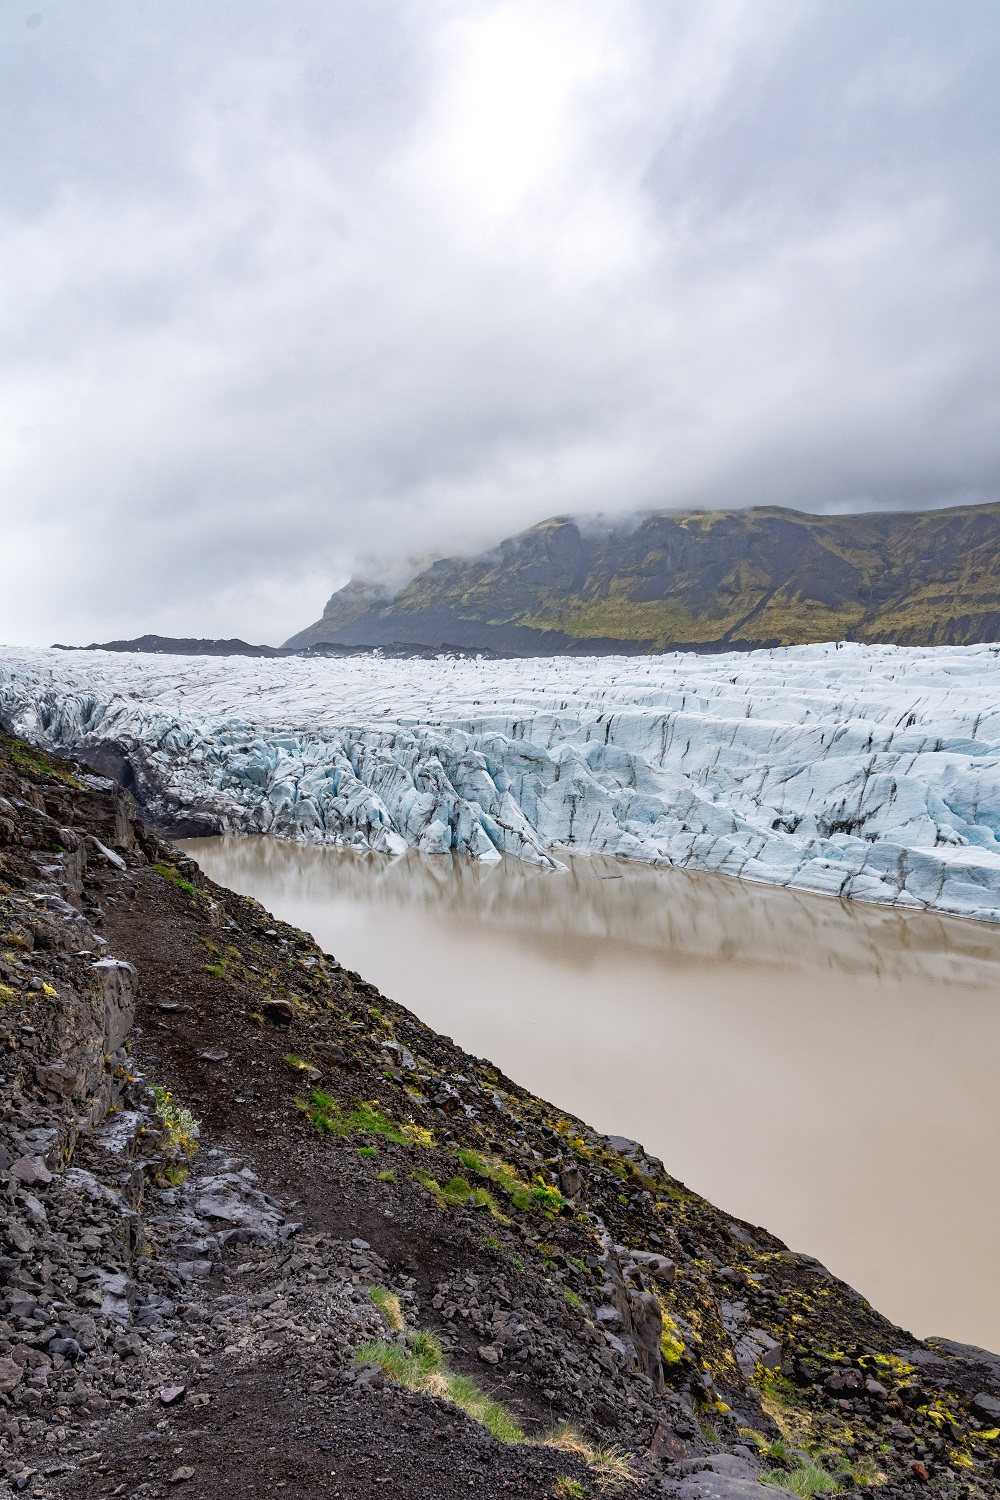
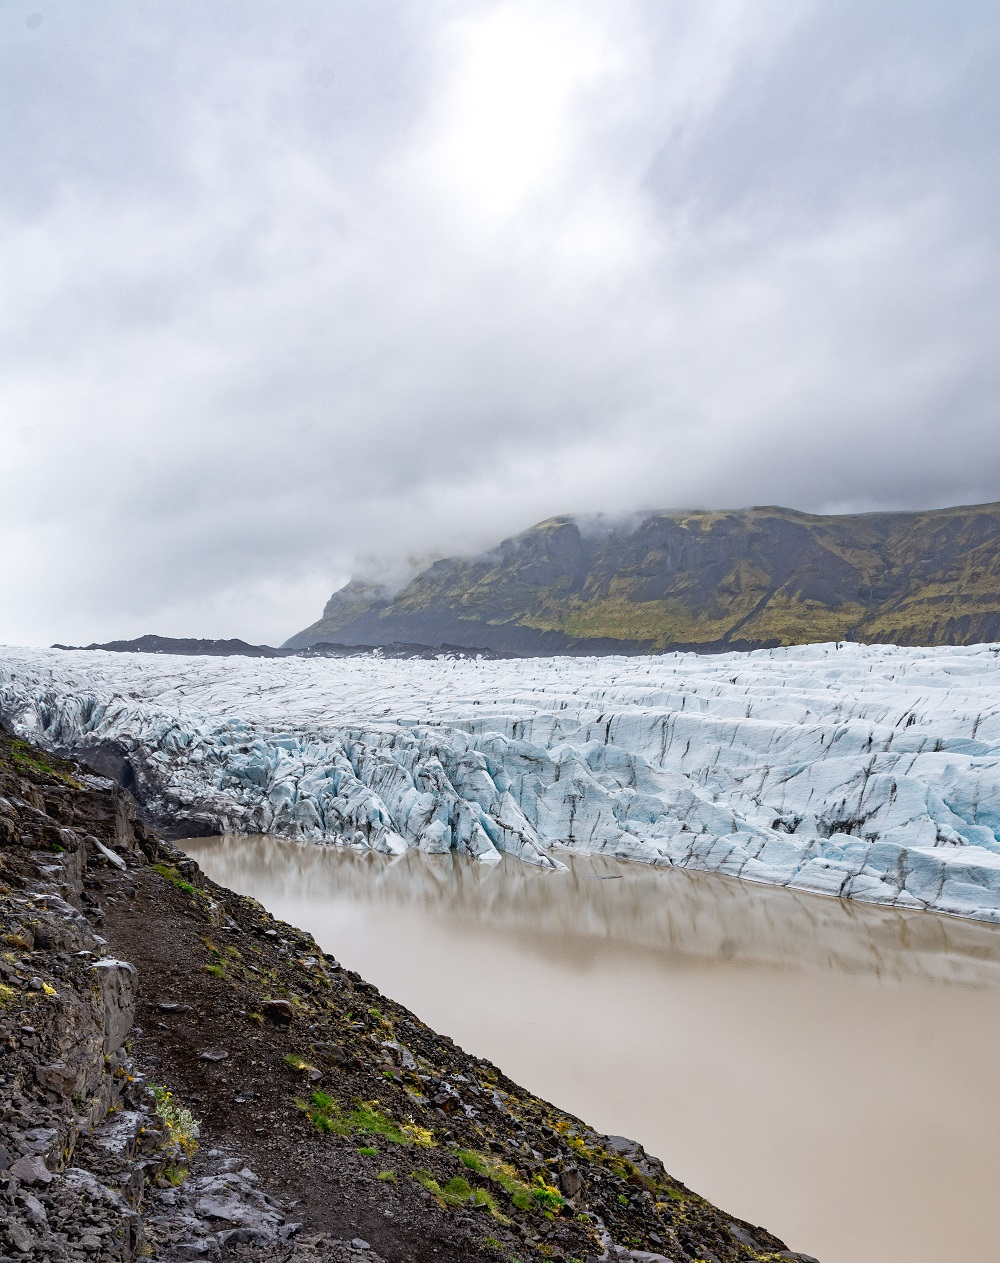
ferdig med bilder

diff --git a/stylesheet.css b/stylesheet.css
@@ -14,7 +14,9 @@ h1 {
 img {
     display: block;
     overflow: hidden;
-    width: 100%
+    width: 100%;
+    height: 100%;
+    object-fit: cover;
 }
 
 * {
@@ -86,10 +88,12 @@ a:active {
 }
 
 .main {
-    max-width: 1500px;
+    max-width: 1300px;
     margin: 50px auto 0 auto;
 }
+
 /* Referanse bilde: https://unsplash.com/photos/qwHHOC2z5Xs */
+
 .top-container {
     background-image: url('img/Tree.jpg');
     height: 900px;
@@ -112,55 +116,49 @@ a:active {
 .container {
     float: left;
     width: 100%;
-    margin: 3% 0;
+    /* margin: 3% 0; */
 }
 
 .left-side {
     float: left;
     width: 50%;
+    margin-top: 1.5%;
+    margin-bottom: 1.5%;
 }
 
 .text-box {
-    width: 70%;
     background-color: #F4FDFE;
     border: 2px solid #305640;
     margin: 0 auto;
-    padding: 3% 6%;
+    padding: 44px 63px;
     color: #707070;
-
+    width: 500px;
 }
 
 .right-side {
     float: right;
     width: 50%;
+    margin-top: 1.5%;
+    margin-bottom: 1.5%;
 }
 
-.clima-image-box {
-    width: 70%;
+.image-container {
+    width: 500px;
+    border: 2px solid #305640;
     margin: 0 auto;
+    overflow: hidden;
 }
 
-.image-storm-container {
-    width: 100%;
-    border: 2px solid #305640;
-}
-
-.image-protest-container {
-    width: 100%;
-    border: 2px solid #305640;
-    margin-top: 10px;
+.image-glacier-container {
+    height: 630px;
 }
 
 .image-dead-container {
-    width: 70%;
-    border: 2px solid #305640;
-    margin: 0 auto;
+    height: 666px;
 }
 
 .image-sappling-container {
-    width: 70%;
-    border: 2px solid #305640;
-    margin: 0 auto;
+    height: 586px;
 }
 
 .footer {
@@ -187,33 +185,30 @@ a:active {
     float: center;
 }
 
-@media only screen and (max-width: 1000px) {
+@media only screen and (max-width: 1050px) {
     .top-container {
         height: 650px;
         padding-top: 185px;
         background-size: 100%;
     }
-    .footer {
-       padding-left: 20px;
+    .left-side {
+        width: 100%;
     }
-    @media only screen and (max-width: 900px){
-      .left-side {
-          float: left;
-          width: 100%;
-          margin-bottom: 50px;
-      }
-      .right-side {
-          float: right;
-          width: 100%;
+    .right-side {
+        width: 100%;
+    }
+    .footer {
+        padding-left: 20px;
+    }
+    @media only screen and (max-width: 900px) {
+        .footer {
+            padding-left: 15px;
         }
-      .footer {
-         padding-left: 15px;
-      }
         @media only screen and (max-width: 850px) {
-          .top-container {
-              height: 550px;
-              padding-top: 150px;
-              background-size: 100%;
+            .top-container {
+                height: 550px;
+                padding-top: 150px;
+                background-size: 100%;
             }
             .plant-box {
                 max-width: 400px;
@@ -221,43 +216,43 @@ a:active {
                 padding-right: 40px;
             }
             h1 {
-              font-size: 40px;
+                font-size: 40px;
             }
             .footer {
-               padding-left: 10px;
+                padding-left: 10px;
             }
-              @media only screen and (max-width: 700px){
+            @media only screen and (max-width: 700px) {
                 .top-container {
                     height: 450px;
                     padding-top: 100px;
                     background-size: 100%;
-                  }
-                  .plant-box {
-                      max-width: 350px;
-                      padding-left: 40px;
-                      padding-right: 40px;
-                  }
-                  h1 {
+                }
+                .plant-box {
+                    max-width: 350px;
+                    padding-left: 40px;
+                    padding-right: 40px;
+                }
+                h1 {
                     font-size: 30px;
-                  }
-              }
-                @media only screen and (max-width: 504px) {
-                  .header a {
-                      padding: 16px 16px;
-                      font-size: 12px;
-                  }
-                  .top-container {
-                      height: 350px;
-                      padding-top: 80px;
-                      background-size: 100%;
-                    }
-                    .plant-box {
-                        max-width: 300px;
-                        padding-left: 40px;
-                        padding-right: 40px;
-                    }
-                    h1 {
-                      font-size: 25px;
-                    }
+                }
+            }
+            @media only screen and (max-width: 504px) {
+                .header a {
+                    padding: 16px 16px;
+                    font-size: 12px;
+                }
+                .top-container {
+                    height: 350px;
+                    padding-top: 80px;
+                    background-size: 100%;
+                }
+                .plant-box {
+                    max-width: 300px;
+                    padding-left: 40px;
+                    padding-right: 40px;
+                }
+                h1 {
+                    font-size: 25px;
+                }
+            }
         }
-}

diff --git a/index.html b/index.html
@@ -44,25 +44,12 @@
                 </div>
             </div>
             <div class="right-side">
-                <div class="clima-image-box">
-                    <!-- Referanse bilde: https://images.unsplash.com/photo-1561470508-fd4df1ed90b2?ixlib=rb-1.2.1&ixid=eyJhcHBfaWQiOjEyMDd9&auto=format&fit=crop&w=600&q=60 -->
-                    <div class="image-storm-container">
-                        <img src="img/Storm.jpg" alt="A storm">
-                    </div>
-                    <!-- Referanse bilde: https://unsplash.com/photos/ycW4YxhrWHM -->
-                    <div class="image-protest-container">
-                        <img src="img/Protest.jpg" alt="Demonstration against climate change">
-                    </div>
+                <div class="image-container image-glacier-container">
+                    <img src="img/Melting.jpg" alt="Glacier melting">
                 </div>
             </div>
         </div>
         <div class="container" id="why">
-            <div class="left-side">
-                <!--Referanse bilde: https://unsplash.com/photos/fjq7dNxSkG0 -->
-                <div class="image-dead-container">
-                    <img src="img/Dead.jpg" alt="A Dead field with trees in the backround">
-                </div>
-            </div>
             <div class="right-side">
                 <div class="text-box">
                     <!-- Plasser tekst om hvorfor det er viktig her -->
@@ -70,14 +57,22 @@
                     <!-- Text inspiration from https://www.nationalgeographic.com/news/2015/12/151204-climate-paris-disease-antarctic-arctic-ice-melt-acidification-fish-co2/ -->
                     <p> <a href="https://www.un.org/en/climatechange/reports"> There are many reports on global
                             warming.</a> As a result of the earth getting warmer the Polar ice caps are melting, leading
-                        to a raise in sea level. Some of the worlds largest cities, and whole island states are in the danger zone.
+                        to a raise in sea level. Some of the worlds largest cities, and whole island states are in the
+                        danger zone.
                         When the permafrost is melting a feedback loop can potentially occur, releasing more carbon
                         dioxide. The oceaon absorbs carbon dioxide and it alters the habitat and endanger life in the
-                        sea. it is important to fight the climate change for a more sustainable future for our children. </p>
+                        sea. it is important to fight the climate change for a more sustainable future for our children.
+                    </p>
 
                     <p> No one can stop the climate from changing on its own. We all need to do what we can to make a
                         better furure. If a small act can make a litte difference it's important to act on it and we can
                         all find something to do. </p>
+                </div>
+            </div>
+            <div class="left-side">
+                <!--Referanse bilde: https://unsplash.com/photos/fjq7dNxSkG0 -->
+                <div class="image-container image-dead-container">
+                    <img src="img/Dead.jpg" alt="A Dead field with trees in the backround">
                 </div>
             </div>
         </div>
@@ -102,7 +97,7 @@
             </div>
             <div class="right-side">
                 <!-- Referanse bilde: https://unsplash.com/photos/6V149DcMaG4 -->
-                <div class="image-sappling-container">
+                <div class="image-container image-sappling-container">
                     <img src="img/Sappling.jpg" alt="A small sappling">
                 </div>
             </div>
